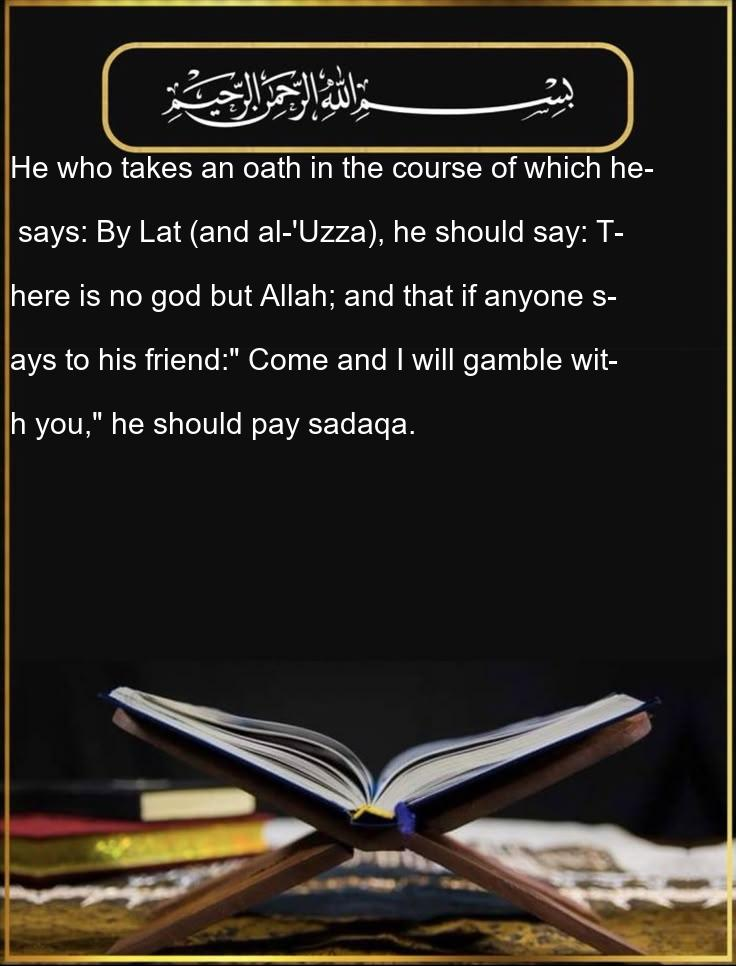
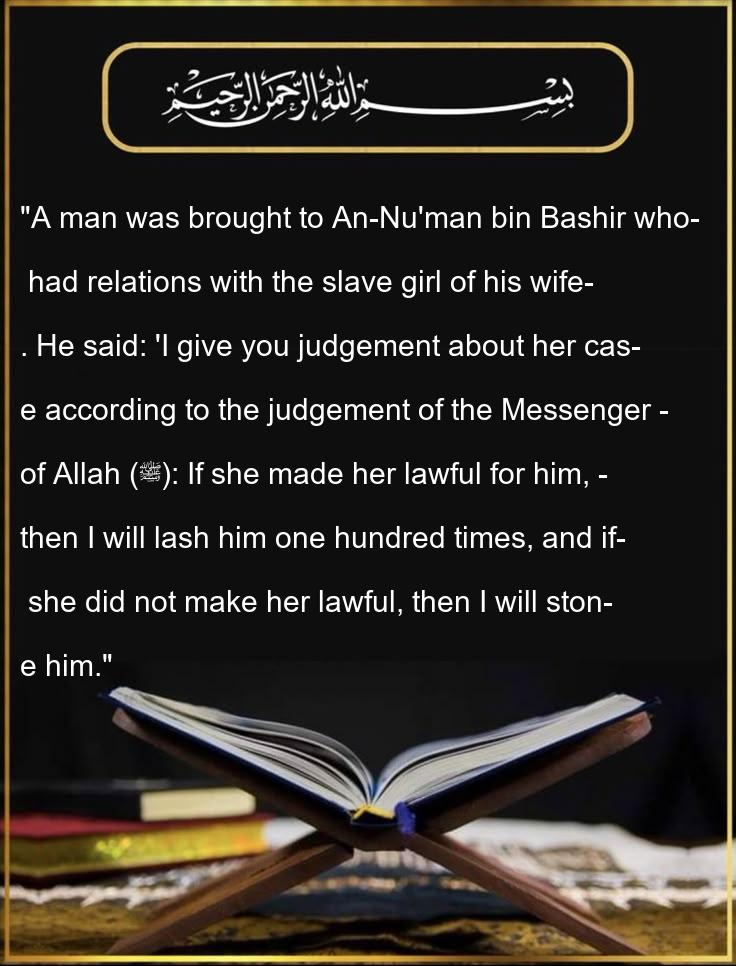
cvc

diff --git a/main.py b/main.py
@@ -28,12 +28,18 @@ with open("headlines.txt", 'r+', encoding="utf-8", errors="ignore") as headlines
             headlines_txt.write(f"{headline}\n")
             break
         ind += 1
-hadith = get_hadith()
+while True:
+    hadith, url = get_hadith()
+    if len(hadith) > 360:
+        hadith, url = get_hadith()
+    else:
+        break
+
 hadith = add_newlines(hadith, 46)
 edit_image(hadith, 30, 20, 200, "hadith.jpg", "output_hadith.jpg")
 bot = instagrapi.Client()
 #bot = login(username.strip(), password.strip())
 bot = login_by_session_id(session_id_insta)
 post = bot.photo_upload("output_image.jpg", f"{headline}")
-post = bot.photo_upload("output_hadith.jpg", f"|| {hadith} ||")
+post = bot.photo_upload("output_hadith.jpg", f"{url} || {hadith} ||")
 #status = logout(bot=bot)

diff --git a/hadith.py b/hadith.py
@@ -28,7 +28,7 @@ def get_hadith():
 
     if hadiths:
         random_hadith = random.choice(hadiths).text.strip()
-        return random_hadith
+        return random_hadith, url
     else:
         print("No Hadith found. Check the URL or page range.")
 
